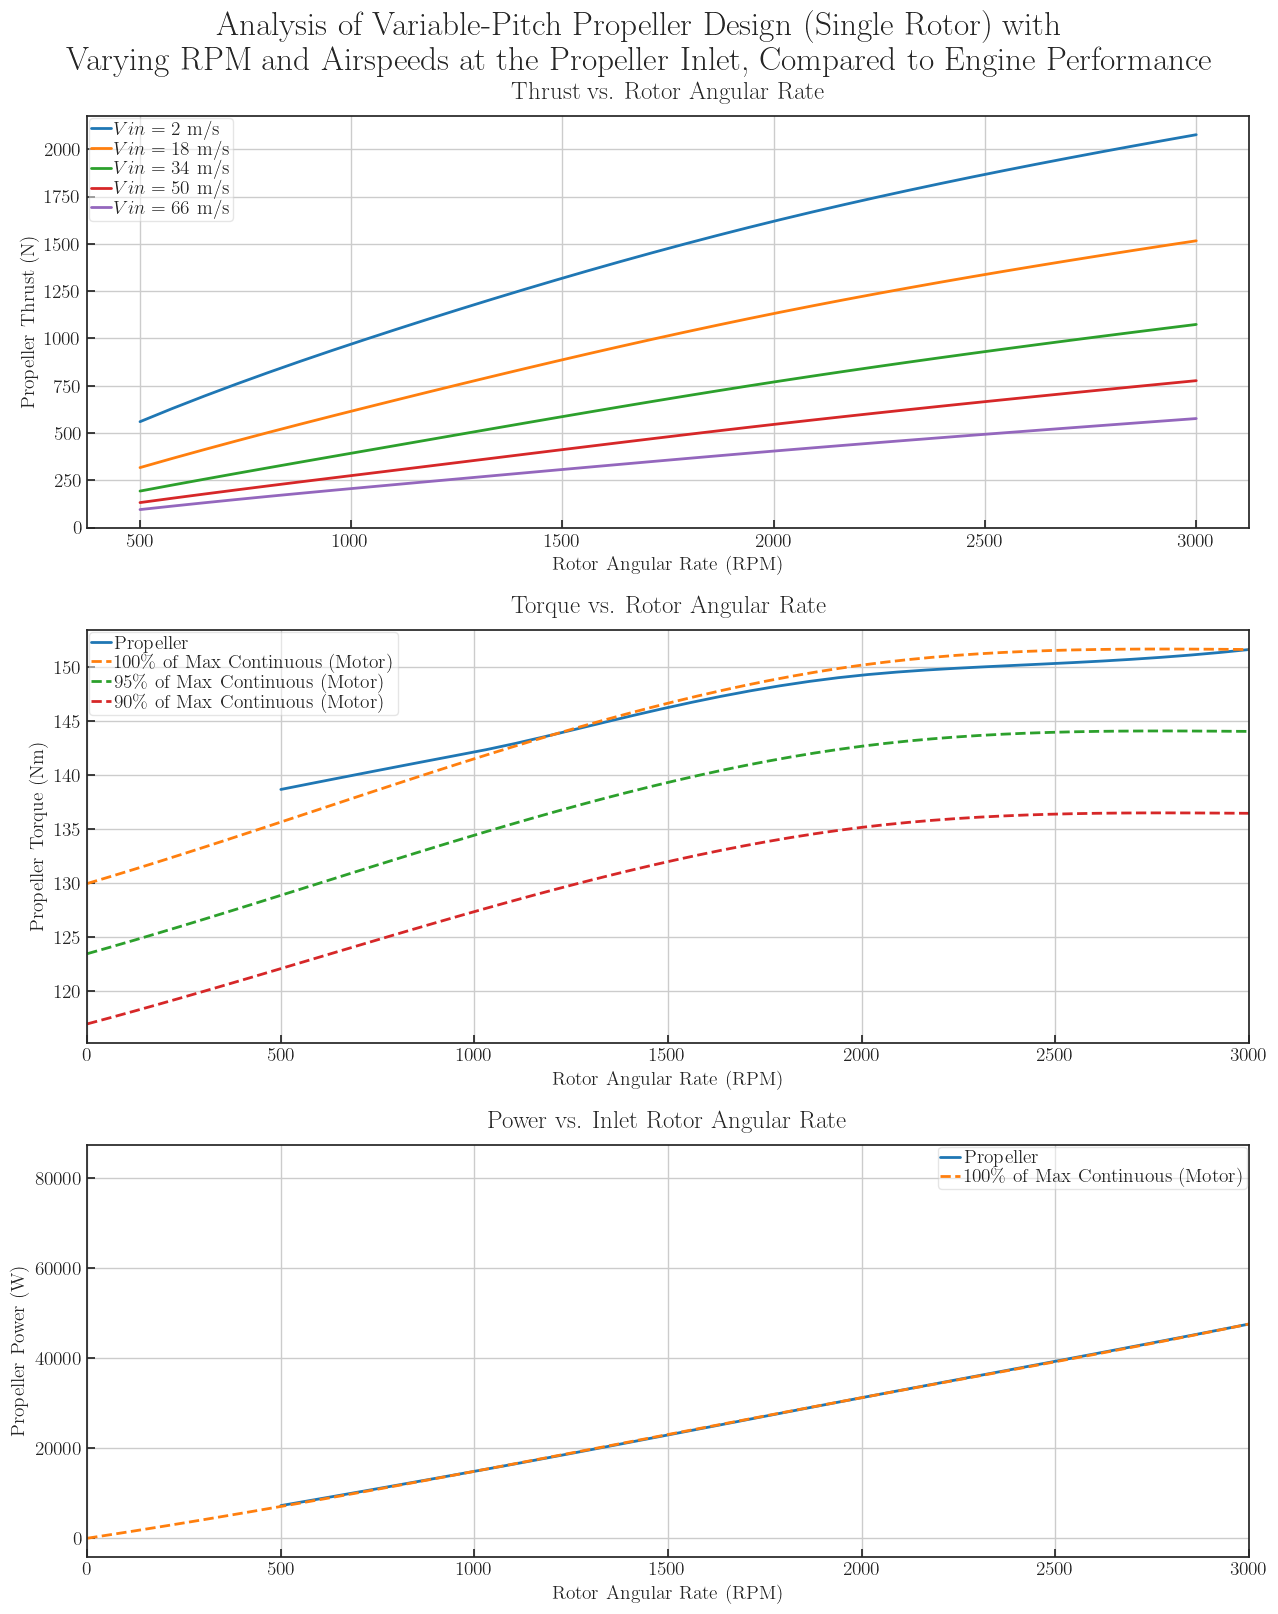
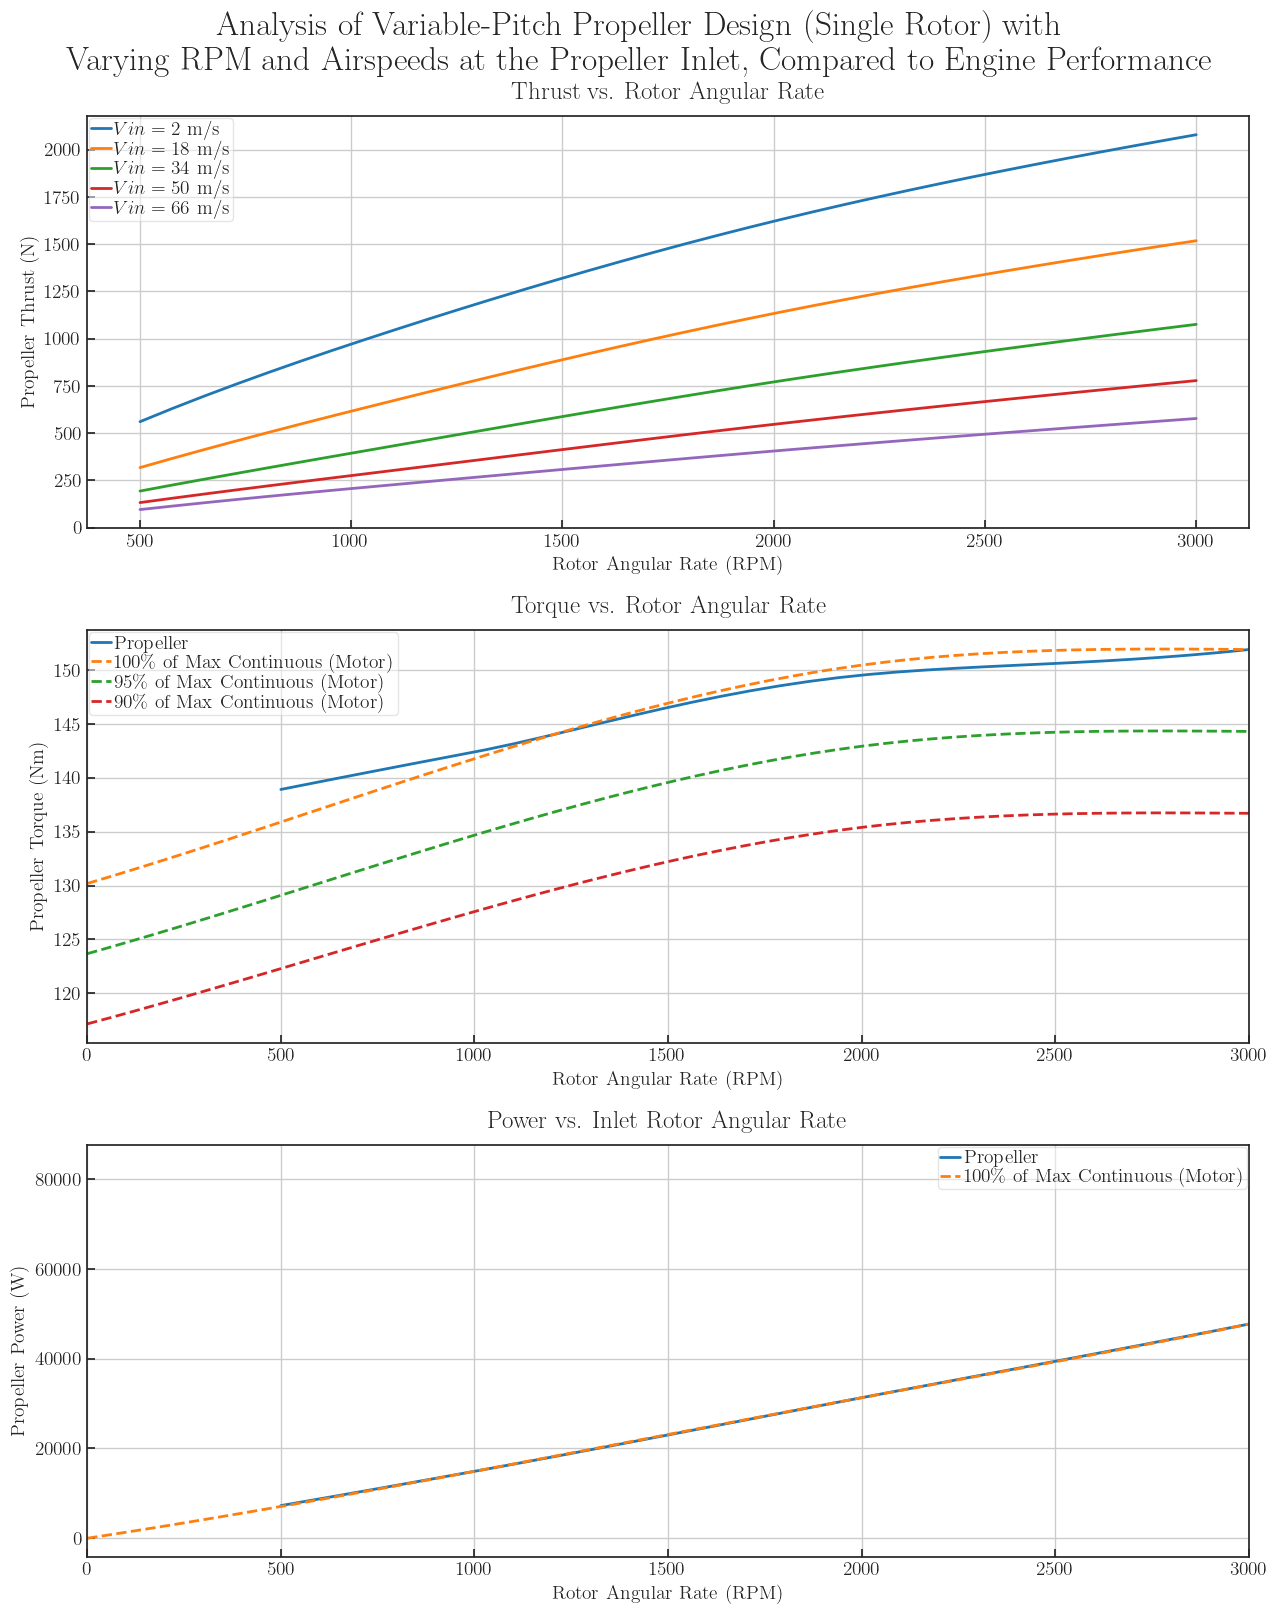
Propulsion update
TVG 03.07.2021

diff --git a/Python_Codes/power_consumption_and_battery.py b/Python_Codes/power_consumption_and_battery.py
@@ -1,0 +1,133 @@
+# Code to plot the power during each phase of flight and battery energy
+import matplotlib.pyplot as plt
+import sys
+sys.path.append("../Utilities")
+import numpy
+
+try:
+    import formatfigures
+    formatfigures.formatsubfigures()
+    latex = True
+except:
+    pass
+    print("Not using latex formatting")
+    latex = False
+
+
+p_hc = 40e3
+p_fc1 = 11e3
+p_cr1 = 7e3
+p_fc2 = 15e3
+p_cr2 = 7e3
+p_fc3 = 145e2
+p_mcr = 7e3
+p_fd = 0
+p_hd = 40e3
+p_hcal = 40e3
+p_crdiv = 7e3
+p_hdal = 40e3
+
+RPM_hc = 2500
+RPM_fc1 = 800
+RPM_cr1 = 500
+RPM_fc2 = 1100
+RPM_cr2 = 500
+RPM_fc3 = 1000
+RPM_mcr = 500
+RPM_fd = 0
+RPM_hd = 2500
+RPM_hcal = 2500
+RPM_crdiv = 500
+RPM_hdal = 2500
+
+t_hc = 60
+t_fc1 = 146.3
+t_cr1 = 181.7
+t_fc2 = 73.15
+t_cr2 = 389.36
+t_fc3 = 225.22
+t_mcr = 752.76
+t_fd = 259.57
+t_hd = 60
+t_hcal = 60
+t_crdiv = 389.36
+t_hdal = 60
+
+ts = [t_fc1, t_cr1, t_fc2, t_cr2, t_fc3, t_mcr, t_fd, t_hd, t_hcal, t_crdiv, t_hdal]
+
+t_vec = [0, t_hc, t_hc]
+
+for t in ts:
+    t_add = t_vec[len(t_vec)-1]+t
+    t_vec.append(t_add)
+    if len(t_vec) < 23:
+        t_vec.append(t_add)
+
+t_vec = numpy.array(t_vec)
+
+eta_m = 0.75
+p_vec = numpy.array([p_hc, p_hc, p_fc1, p_fc1, p_cr1, p_cr1, p_fc2, p_fc2, p_cr2, p_cr2, p_fc3, p_fc3, p_mcr, p_mcr, p_fd, p_fd, p_hd, p_hd, p_hcal, p_hcal, p_crdiv, p_crdiv, p_hdal, p_hdal])
+# p_vec = [item*(8/eta_m) for item in p_vec]
+p_vec *= 8/eta_m
+
+RPM_vec = numpy.array([RPM_hc, RPM_hc, RPM_fc1, RPM_fc1, RPM_cr1, RPM_cr1, RPM_fc2, RPM_fc2, RPM_cr2, RPM_cr2, RPM_fc3, RPM_fc3, RPM_mcr, RPM_mcr, RPM_fd, RPM_fd, RPM_hd, RPM_hd, RPM_hcal, RPM_hcal, RPM_crdiv, RPM_crdiv, RPM_hdal, RPM_hdal])
+
+# Plot power and RPM vs Time
+plt.figure()
+plt.subplot(2,1,1)
+plt.plot(t_vec,p_vec)
+plt.plot((t_vec[17], t_vec[17]),(min(p_vec)-10000,1.2*max(p_vec)),'k--',label="Divert")
+plt.ylim((min(p_vec)-10000,1.2*max(p_vec)))
+plt.gca().set_title("Power Consumption of Entire Aircraft Throughout Mission (Normal Operation)")
+plt.xlabel("Time (s)")
+plt.ylabel("Power (W)")
+plt.legend()
+
+plt.subplot(2,1,2)
+plt.plot(t_vec,RPM_vec)
+plt.plot((t_vec[17], t_vec[17]),(min(RPM_vec)-100,1.2*max(RPM_vec)),'k--',label="Divert")
+plt.ylim((min(RPM_vec)-100,1.2*max(RPM_vec)))
+plt.gca().set_title("Propeller/Motor RPM Throughout Mission (Normal Operation)")
+plt.xlabel("Time (s)")
+plt.ylabel("RPM")
+plt.legend()
+plt.tight_layout(rect=(0, 0, 1, 0.92))
+plt.suptitle("Power Consumption of Aircraft (assuming $\eta_{{mech}}$ = {}), \n and Propeller/Motor RPM Throughout Mission".format(eta_m), fontsize=24)
+plt.savefig('./Figures/power_consumption.png', bbox_inches='tight')
+
+
+# Plot battery energy consumption vs time
+try:
+    import formatfigures
+    formatfigures.formatfigures()
+    latex = True
+except:
+    pass
+    print("Not using latex formatting")
+    latex = False
+
+e_ini = 29e3
+p_h2 = 100e3
+p_batt_vec = p_vec-p_h2
+t_temp = numpy.linspace(min(t_vec),max(t_vec),1001)
+p_batt_vec = numpy.interp(t_temp,t_vec,p_batt_vec)
+t_vec = t_temp
+e_max = 35e3
+
+e_batt_vec = numpy.zeros(numpy.size(p_batt_vec))
+for ii in range(0,len(p_batt_vec)):
+    e_batt_vec[ii] = e_ini-numpy.trapz(p_batt_vec[0:ii], t_vec[0:ii]/3600)
+plt.figure()
+plt.fill_between(t_vec/3600, e_batt_vec, 0.2*e_max*numpy.ones(numpy.size(t_vec)), color=(67/255, 217/255, 0),alpha=0.7,label="Battery Charge Available")
+plt.fill_between(t_vec/3600, e_batt_vec, e_max*numpy.ones(numpy.size(e_batt_vec)),color=(0.2,0.2,0.2),alpha=0.5)
+plt.plot(t_vec/3600, e_max*numpy.ones(numpy.size(e_batt_vec)), 'k',label = "Full Chage")
+plt.fill_between(t_vec/3600, 0.2*e_max*numpy.ones(numpy.size(t_vec)),color=(1,0,0),alpha=0.7,label="Battery Reserve")
+plt.plot((2148.06/3600, 2148.06/3600),(0,1.4*max(e_batt_vec)),'k--',label="Divert")
+plt.ylim((0,1.4*max(e_batt_vec)))
+plt.ylabel("Battery Energy (Wh)")
+plt.xlabel("Time (h)")
+plt.title("Battery Energy Over Mission")
+
+plt.legend(loc='upper center')
+plt.savefig('./Figures/battery_energy.png', bbox_inches='tight')
+plt.show()

diff --git a/Python_Codes/prop_design_TVG.py b/Python_Codes/prop_design_TVG.py
@@ -85,18 +85,22 @@ def prop_design(AtmData, Propeller, T_req, m0_fn, Cd_fn):
     B = Propeller.numB
     a_0 = Propeller.alp0
 
+    # Unpacking atmosphere class
+    v_inf = AtmData.vel
+
+    # Number of points from root to tip on the propeller
     num = 201
     D = 2 * R
     r = numpy.linspace(0, R, num)
     x = r / R
-    t_c = 0.04 / x ** 1.2
+    t_c = 0.04 / (x ** 1.2)
     a = numpy.sqrt(AtmData.k * AtmData.R * AtmData.temp)
     M_DD = 0.94 - t_c - Cl / 10     # Given
 
-    J = AtmData.vel / (n * D)
+    J = v_inf / (n * D)
     omega = 2 * math.pi * n     # rad/s
     phi = numpy.arctan(J / (math.pi * x))   # rad
-    VR = numpy.sqrt([AtmData.vel ** 2 + item ** 2 for item in (omega * r)])
+    VR = numpy.sqrt([v_inf ** 2 + item ** 2 for item in (omega * r)])
     Ma = VR / a
 
     if max(Ma) > max(M_DD):
@@ -112,8 +116,8 @@ def prop_design(AtmData, Propeller, T_req, m0_fn, Cd_fn):
 
     m_0 = [m0_fn(num) for num in Ma]
 
-    # Iteration
-    v_0 = [0.05 * AtmData.vel] * num
+    # Initial values for iteration
+    v_0 = [0.05 * v_inf] * num
     T_design = 2e3
     iter = 1
     iterLim = 5e2
@@ -123,7 +127,7 @@ def prop_design(AtmData, Propeller, T_req, m0_fn, Cd_fn):
         return
 
     while (numpy.round(T_design, 12) != numpy.round(T_req, 12)) and (iter < iterLim):
-        theta = numpy.arctan(([AtmData.vel + item for item in v_0]) / (2 * math.pi * n * r)) - phi
+        theta = numpy.arctan(([v_inf + item for item in v_0]) / (2 * math.pi * n * r)) - phi
 
         # For a fixed Cl, calculate c
         sigma = 8 * x * theta * numpy.cos(phi) * numpy.tan(theta + phi) / Cl        #rad
@@ -163,6 +167,8 @@ def prop_design(AtmData, Propeller, T_req, m0_fn, Cd_fn):
             break
 
         iter += 1
+        
+    print("Propeller design complete, converged in {} iterations".format(int(iter)))
         
     # print("iter = " + str(iter))
     # End of while loop

diff --git a/Python_Codes/prop_design_analysis_varpitch.py b/Python_Codes/prop_design_analysis_varpitch.py
@@ -67,27 +67,30 @@ def Cd_fn(Cl):
 
 
 # Variable pitch analysis
-# Design a propeller with the hover conditions 
-# radius = 1.78 / 2
-radius = 1
-LD = 15
+# Design a propeller 
+radius = 1.78 / 2
+LD = 15 # Assumed
 is_SI = True
+
+# 3 Blades
 numB = 3
-T_req = 13000 / (8) *1.2*0.6# N (TOGW/(L/D))
+
+# Design condition
+T_req = 13000 / (8) *1.2*0.601# N (TOGW/(L/D))
 Cl = 0.4
 alp0 = numpy.radians(-2)
-#v_design = 30  # IDK why I'm choosing this, lol. Just trying to debug since the code isn't behaving
+
 v_hover = 2.54
 v_cruise = 62
 v_design = 30
 atm = AtmData(v_design, 0, is_SI)
 atm.expand(1.4, 287)
-#v_seq = numpy.arange(0, 72, 2)
-v_seq = numpy.arange(0, 68, 2)  ### Changed by XT
+v_seq = numpy.arange(0, 68, 2)
 ll = numpy.size(v_seq)
-Hover_RPM = 2500
 
-prop = Propeller(radius, numB, Hover_RPM, eta_P=0, CP=0, CT=0, CQ=0, Cl=0.4)
+Design_RPM = 3000
+
+prop = Propeller(radius, numB, Design_RPM, eta_P=0, CP=0, CT=0, CQ=0, Cl=Cl)
 r, prop.chord, prop.bet, P_design, T_design, Q_design, eta_P, prop.theta = prop_design(atm, prop, T_req, m0_fn, Cd_fn)
 
 # Plot the propeller design
@@ -141,12 +144,12 @@ plt.gca().set_title("Propeller Efficiency vs. Inlet Airspeed")
 
 sp5 = plt.subplot(3, 1, 3)
 plt.xlabel("Inlet Airspeed (m/s)")
-plt.ylabel(r"Pitch Variation $\delta_\beta$ (deg)")
+plt.ylabel(r"Pitch Variation $\Delta_\beta$ (deg)")
 plt.gca().set_title("Propeller Pitch Variation vs. Inlet Airspeed")
 
 # Analyze the propeller with the variable pitch propeller function
 # Plotting with several different RPM values
-for RPM in range(1000, 3500, 500):
+for RPM in range(500, 3500, 500):
     for ii in range(ll):
         prop.RPM = RPM
         J_var[ii], P_design_var[ii], T_design_var[ii], Q_design_var[ii], eta_P_var[ii], d_bet[ii] = prop_analysis_var_pitch(v_seq[ii], v_design, Emrax188_HV_CC_mod, is_HP, atm, prop, m0_fn, Cd_fn)

diff --git a/Python_Codes/prop_analysis_var_pitch.py b/Python_Codes/prop_analysis_var_pitch.py
@@ -128,15 +128,15 @@ def prop_analysis_var_pitch(v_in, v_des, P_eng_data, is_HP, AtmData, Propeller, 
         d_bet_old = temp
 
         # d_bet = d_bet if P_design_var > 0 else -d_bet*0.5
-        if P_design_var > 0:
-            P_design_var = P_design_var  
-        else:
-            P_design_var = 0.8*P_eng
-            # if flag == True:
-            #     P_design_var = 0.5*P_eng
-            #     flag = False
-            # flag = True
-            print("Power is negative, resetting")        
+        # if P_design_var > 0:
+        #     P_design_var = P_design_var  
+        # else:
+        #     P_design_var = 0.8*P_eng
+        #     # if flag == True:
+        #     #     P_design_var = 0.5*P_eng
+        #     #     flag = False
+        #     # flag = True
+        #     print("Power is negative, resetting")        
 
         res = numpy.absolute(P_design_var - P_eng)
         # print(iter_num)
